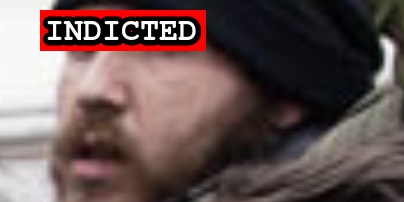
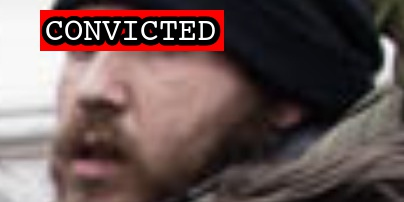
Latest conviction

Changed region(s): [[0.0891, 0.0297, 0.5644, 0.2673]]

diff --git a/docs/_suspects/marshall-neefe.md b/docs/_suspects/marshall-neefe.md
@@ -4,15 +4,17 @@ lastName: Neefe
 hashtag: MarshallNeefe
 aka:
 residence: Pennsylvania
-status: Charged
+status: Convicted
 date: 2021-09-08
 charged: 2021-09-08
 indicted:
-convicted:
+convicted: 2022-05-03
+acquitted:
 sentenced:
 dismissed:
 deceased:
 plea_hearing: 2022-05-03
+trial_date:
 sentencing:
 age: 25
 occupation:
@@ -34,6 +36,14 @@ published: true
 caseNumber: 1:21-cr-567
 videos:
 charges:
+  - code: 18 USC § 1512(k)
+    title: Conspiracy to Obstruct an Official Proceeding
+    url: https://www.law.cornell.edu/uscode/text/18/1512
+    felony: true
+  - code: 18 USC § 111(a)(1)
+    title: Assaulting, resisting, or impeding certain officers or employees
+    url: https://www.law.cornell.edu/uscode/text/18/111
+    felony: true
 sentence:
 ---
 

diff --git a/docs/_suspects/russell-peterson.md b/docs/_suspects/russell-peterson.md
@@ -49,3 +49,4 @@ sentence:
 - [Information](https://www.justice.gov/usao-dc/case-multi-defendant/file/1388656/download)
 - [Plea Agreement](https://www.justice.gov/usao-dc/case-multi-defendant/file/1431466/download)
 - [Statement of Offense](https://www.justice.gov/usao-dc/case-multi-defendant/file/1431461/download)
+- [Sentencing Hearing Transcript](https://extremism.gwu.edu/sites/g/files/zaxdzs2191/f/Russell%20James%20Peterson%20Sentencing%20Hearing%20Transcript.pdf)
